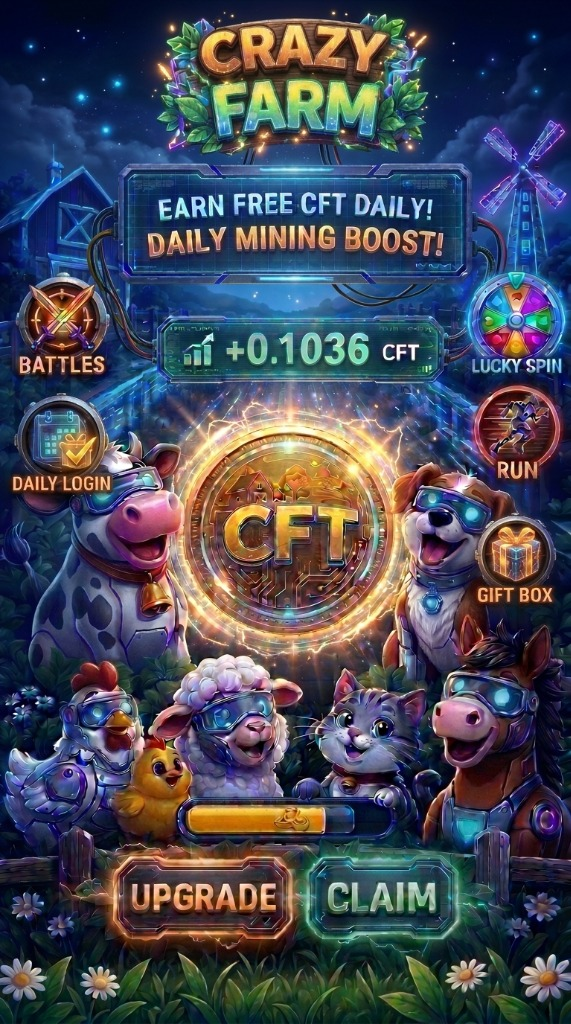
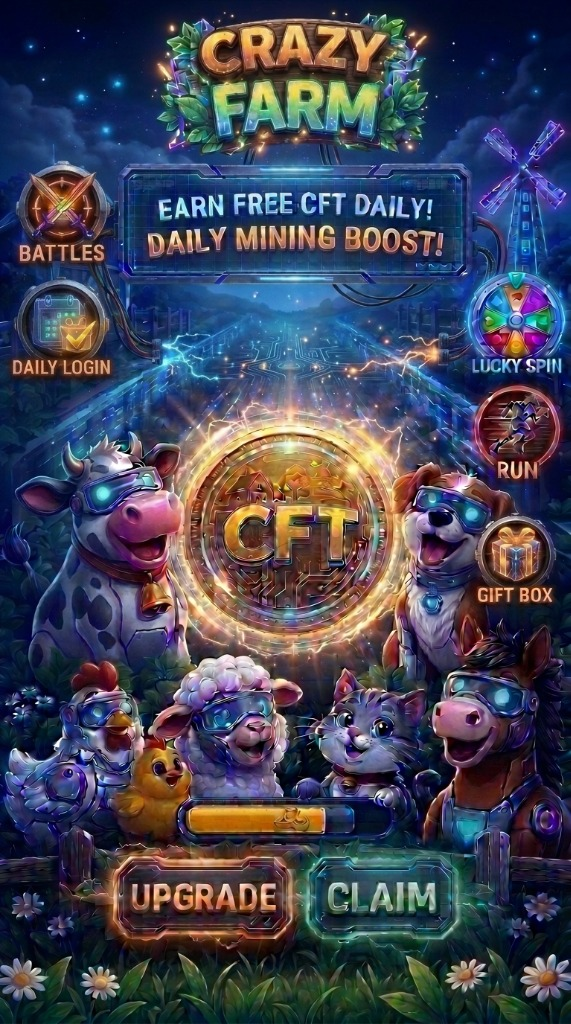
feat: complete CFT currency unification, remove points conversion, fix character encoding mojibake, and calibrate edge-to-edge home layout

diff --git a/index.html b/index.html
@@ -1,4 +1,4 @@
-<!DOCTYPE html>
+<!DOCTYPE html>
 <html lang="en" dir="ltr">
 <head>
   <meta charset="UTF-8">
@@ -282,7 +282,7 @@
       <!-- ===== CYBER FARM MASTER HOME VIEW ===== -->
       <!-- ===== CYBER FARM MASTER HOME VIEW ===== -->
       <!-- ===== CYBER FARM MASTER HOME VIEW ===== -->
-      <div id="homeView" class="-mx-3 -mt-3 -mb-24 relative w-[calc(100%+1.5rem)] overflow-hidden select-none pb-0">
+      <div id="homeView" class="-mx-3 -mt-3 mb-0 relative w-[calc(100%+1.5rem)] overflow-hidden select-none pb-0">
         
         <div id="cyberHomeContainer" class="relative w-full overflow-hidden shadow-2xl" style="height: calc(100vh - 60px); height: calc(100dvh - 60px); min-height: 560px;">
           
@@ -306,37 +306,37 @@
           </div>
 
           <!-- 3. Mining Rate Center Badge (Real-Time Live Ticker) -->
-          <div class="absolute flex flex-col items-center justify-center pointer-events-none select-none" style="left: 32%; top: 31.0%; width: 36%; height: 5.2%;">
-            <span id="cyberMiningLiveMined" class="text-[11.5px] font-black text-lime-300 tracking-wide drop-shadow font-mono leading-none">+0.0000 CFT</span>
-            <span id="cyberMiningSpeed" class="text-[8px] font-bold text-cyan-200/90 leading-tight mt-0.5">âš¡ 12/d (Lv.1)</span>
+          <div class="absolute flex flex-col items-center justify-center pointer-events-none select-none bg-black/55 backdrop-blur-md border border-cyan-400/40 rounded-2xl px-2.5 py-0.5 shadow-lg" style="left: 28%; top: 30.5%; width: 44%; height: 5.8%;">
+            <span id="cyberMiningLiveMined" class="text-[12px] font-black text-lime-300 tracking-wide drop-shadow font-mono leading-none">+0.0000 CFT</span>
+            <span id="cyberMiningSpeed" class="text-[8.5px] font-bold text-cyan-200 leading-tight mt-0.5">&#9889; 12/d (Lv.1)</span>
           </div>
 
           <!-- ==================== INTERACTIVE CLICKABLE HOTSPOTS ==================== -->
           <!-- 4. Battles Hotspot (Left Swords Ring) -->
-          <div onclick="openBattlesModal()" class="absolute z-20 cursor-pointer rounded-full active:scale-90 transition-transform" style="left: 4.5%; top: 26.5%; width: 17%; height: 9.5%;" title="Farm Battles"></div>
+          <div onclick="openBattlesModal()" class="absolute z-20 cursor-pointer rounded-full active:scale-90 transition-transform" style="left: 2.5%; top: 15.0%; width: 18%; height: 10%;" title="Farm Battles"></div>
 
           <!-- 5. Daily Login Hotspot (Left Gift Box Ring) -->
-          <div onclick="openDailyLoginModal()" class="absolute z-20 cursor-pointer rounded-full active:scale-90 transition-transform" style="left: 4.5%; top: 37.8%; width: 17%; height: 9.5%;" title="Daily Check-In"></div>
+          <div onclick="openDailyLoginModal()" class="absolute z-20 cursor-pointer rounded-full active:scale-90 transition-transform" style="left: 2.5%; top: 26.5%; width: 18%; height: 10%;" title="Daily Check-In"></div>
 
           <!-- 6. Lucky Spin Hotspot (Right Roulette Ring) -->
-          <div onclick="openCrazyBox()" class="absolute z-20 cursor-pointer rounded-full active:scale-90 transition-transform" style="left: 78.5%; top: 26.5%; width: 17%; height: 9.5%;" title="Lucky Spin Crazy Box"></div>
+          <div onclick="openCrazyBox()" class="absolute z-20 cursor-pointer rounded-full active:scale-90 transition-transform" style="left: 80.5%; top: 25.5%; width: 18%; height: 10%;" title="Lucky Spin Crazy Box"></div>
 
           <!-- 7. Run Hotspot (Right Cyber Runner Character Ring) -->
-          <div onclick="openBattlePrep('run')" class="absolute z-20 cursor-pointer rounded-full active:scale-90 transition-transform" style="left: 78.5%; top: 37.2%; width: 17%; height: 9.5%;" title="Farm Run Sprint"></div>
+          <div onclick="openBattlePrep('run')" class="absolute z-20 cursor-pointer rounded-full active:scale-90 transition-transform" style="left: 80.5%; top: 36.8%; width: 18%; height: 9.5%;" title="Farm Run Sprint"></div>
 
           <!-- 8. Gift Box Hotspot (Right Gold Gift Box Ring) -->
-          <div onclick="openCrazyBox()" class="absolute z-20 cursor-pointer rounded-full active:scale-90 transition-transform" style="left: 80%; top: 48.2%; width: 17%; height: 9.5%;" title="Mystery Gift Box"></div>
+          <div onclick="openCrazyBox()" class="absolute z-20 cursor-pointer rounded-full active:scale-90 transition-transform" style="left: 80.5%; top: 48.5%; width: 18%; height: 9.5%;" title="Mystery Gift Box"></div>
 
           <!-- 9. Giant Center CFT Coin - Interactive Tap-to-Mine with Haptic Feedback & Floating Points! -->
-          <div id="cyberCoinTapArea" onclick="onCyberCoinTap(event)" class="absolute z-20 cursor-pointer rounded-full active:scale-90 transition-transform flex items-center justify-center" style="left: 28%; top: 39.5%; width: 44%; height: 23%;" title="Tap to Mine CFT!">
+          <div id="cyberCoinTapArea" onclick="onCyberCoinTap(event)" class="absolute z-20 cursor-pointer rounded-full active:scale-90 transition-transform flex items-center justify-center" style="left: 28.5%; top: 38.5%; width: 43%; height: 23%;" title="Tap to Mine CFT!">
             <div class="w-full h-full rounded-full border border-yellow-400/20 hover:border-yellow-400/60 transition-colors"></div>
           </div>
 
           <!-- 10. Upgrade Button (Bottom Left) -->
-          <div onclick="onCyberHomeUpgrade()" class="absolute z-20 cursor-pointer rounded-2xl active:scale-95 transition-transform" style="left: 17%; top: 81%; width: 33%; height: 8.5%;" title="Upgrade Animals & Farms"></div>
+          <div onclick="onCyberHomeUpgrade()" class="absolute z-20 cursor-pointer rounded-2xl active:scale-95 transition-transform" style="left: 17.5%; top: 81.5%; width: 34%; height: 9%;" title="Upgrade Animals & Farms"></div>
 
           <!-- 11. Claim Button (Bottom Right) -->
-          <div onclick="onCyberHomeClaim()" class="absolute z-20 cursor-pointer rounded-2xl active:scale-95 transition-transform animate-pulse" style="left: 52%; top: 81%; width: 33%; height: 8.5%;" title="Claim Farm Earnings"></div>
+          <div onclick="onCyberHomeClaim()" class="absolute z-20 cursor-pointer rounded-2xl active:scale-95 transition-transform animate-pulse" style="left: 52.5%; top: 81.5%; width: 34%; height: 9%;" title="Claim Farm Earnings"></div>
 
         </div> <!-- /#cyberHomeContainer -->
 
@@ -397,7 +397,12 @@
           </div>
 
           <!-- Right: Convert Button -->
-          <button onclick="switchTab('wallet')" class="btn-3d-yellow px-3 py-1.5 rounded-xl text-amber-950 font-black text-[11px] shadow-lg border border-yellow-200 flex items-center gap-1 active:scale-95 transition-transform shrink-0" title="Convert Farm Points to CFC"><span>&#128259;</span><span>Convert</span></button>
+          <!-- Right: CFT Token Balance -->
+          <div onclick="switchTab('wallet')" class="flex flex-col items-center justify-center text-center px-2 cursor-pointer active:scale-95 transition-transform shrink-0" title="View CFT Wallet">
+            <span class="text-[8.5px] font-bold text-amber-200 uppercase tracking-tight">CFT Token</span>
+            <span id="dashboardCftDisplay" class="text-xs font-black text-yellow-300 drop-shadow">0.00</span>
+            <span class="text-[7.5px] text-cyan-200 font-semibold">Wallet &#129689;</span>
+          </div>
         </div>
 
         <!-- ==================== CRAZY FARM INTERACTIVE LIVING VIDEO MAP ==================== -->
@@ -557,7 +562,7 @@
               <div class="w-9 h-9 rounded-xl bg-gradient-to-tr from-emerald-500 to-green-600 text-white flex items-center justify-center text-lg shadow shrink-0 border border-emerald-300">&#127808;</div>
               <div class="overflow-hidden">
                 <div class="text-[10px] font-bold text-emerald-800/90 leading-none">Crazy Farm Coin</div>
-                <div id="statHoneyCoins" class="font-black text-emerald-700 text-sm mt-1">0 CFC</div>
+                <div id="statHoneyCoins" class="font-black text-emerald-700 text-sm mt-1">0 CFT</div>
               </div>
             </div>
 
@@ -782,56 +787,19 @@
           </div>
         </div>
 
-        <!-- CARD 2: Convert Farm Points → CFC -->
-        <div class="bg-gradient-to-b from-[#1e1a4a] to-[#130f33] border-2 border-[#5a3bc4] rounded-3xl p-4 shadow-xl text-white">
-          <!-- Header -->
-          <div class="flex items-center gap-2 mb-3">
-            <div class="w-8 h-8 rounded-xl bg-gradient-to-tr from-violet-500 to-purple-600 flex items-center justify-center text-lg shadow border border-purple-300">🔄</div>
-            <h3 class="font-black text-base text-purple-200">Convert Points → CFC</h3>
-          </div>
-
-          <!-- Rate Info -->
-          <div class="bg-purple-900/40 rounded-xl px-3 py-2 mb-3 border border-purple-700/50 text-xs text-center">
-            <span class="text-purple-300 font-semibold">Min: </span>
-            <span class="text-white font-black">5,000 Farm Points</span>
-            <span class="text-purple-300"> → </span>
-            <span class="text-lime-300 font-black">5 CFC Coins &#127808;</span> <span class="ml-1.5 px-2 py-0.5 rounded-full bg-emerald-900/70 text-emerald-300 border border-emerald-500/60 font-black text-[10px]">100% FREE (0% Fee)</span>
-          </div>
-
-          <!-- Conversion Row -->
-          <div class="flex items-center gap-2 mb-3">
-            <div class="flex-1 bg-black/50 border-2 border-purple-700/60 rounded-xl p-2 text-center">
-              <div class="text-[10px] text-purple-300 font-bold mb-0.5">Farm Points</div>
-              <div id="convertFromDisplay" class="text-xl font-black text-white">0</div>
-            </div>
-            <div class="flex flex-col items-center gap-1">
-              <div class="text-2xl animate-pulse">→</div>
-            </div>
-            <div class="flex-1 bg-black/50 border-2 border-lime-600/60 rounded-xl p-2 text-center">
-              <div class="text-[10px] text-lime-300 font-bold mb-0.5">CFC Coins</div>
-              <div id="convertToDisplay" class="text-xl font-black text-lime-300">0</div>
-            </div>
-          </div>
-
-          <!-- Convert Button -->
-          <button onclick="convertPointsToHFC()" class="w-full py-2.5 rounded-2xl bg-gradient-to-r from-violet-600 to-purple-700 hover:brightness-110 text-white font-black text-sm shadow-xl border border-purple-400/60 active:scale-95 transition-all flex items-center justify-center gap-2 cursor-pointer">
-            <span>&#128260;</span> Convert Now (Min: 5,000 Pts → 5 CFC)
-          </button>
-        </div>
-
-        <!-- CARD 3: CFC Balance -->
+        <!-- CARD 3: CFT Balance -->
         <div class="bg-gradient-to-b from-[#0d3d1a] to-[#061a0b] border-2 border-[#2a8c4a] rounded-3xl p-4 shadow-xl text-white">
           <!-- Header -->
           <div class="flex items-center gap-2 mb-3">
             <div class="w-8 h-8 rounded-xl bg-gradient-to-tr from-emerald-500 to-green-600 flex items-center justify-center text-lg shadow border border-emerald-300">💎</div>
-            <h3 class="font-black text-base text-emerald-200">CFC Token Airdrop</h3><span class="ml-auto text-[10px] font-black px-2 py-0.5 rounded-full bg-emerald-900/80 text-emerald-300 border border-emerald-500">Phase 1 Active</span>
+            <h3 class="font-black text-base text-emerald-200">CFT Token Airdrop</h3><span class="ml-auto text-[10px] font-black px-2 py-0.5 rounded-full bg-emerald-900/80 text-emerald-300 border border-emerald-500">Phase 1 Active</span>
           </div>
 
           <!-- CFC Balance -->
           <div class="bg-black/40 rounded-2xl p-3 mb-3 text-center border border-emerald-700/60">
             <div class="flex items-center justify-center gap-2 mb-1">
               <span id="hfcBalanceDisplay" class="text-3xl font-black text-emerald-300">0</span>
-              <span class="text-xl font-black text-emerald-200">CFC</span>
+              <span class="text-xl font-black text-emerald-200">CFT</span>
             </div>
             <div class="text-xs text-emerald-300 font-semibold flex items-center justify-center gap-1"><span>🎯 Allocation Status:</span><span id="hfcUsdDisplay" class="text-yellow-300 font-bold">Accumulating for TGE</span></div>
             <div class="mt-2 pt-2 border-t border-emerald-800/50 flex items-center justify-between text-[10px] text-emerald-300 font-bold px-1">
@@ -1340,13 +1308,13 @@
         <!-- Header -->
         <div class="flex items-center justify-between pb-2.5 border-b border-amber-800/80 mb-3">
           <div class="flex items-center gap-2">
-            <span class="text-2xl animate-bounce">âš”ï¸</span>
+            <span class="text-2xl animate-bounce">&#9876;</span>
             <div>
               <h3 class="text-sm sm:text-base font-black text-yellow-300 uppercase tracking-wide leading-none drop-shadow" style="font-family: 'Fredoka', cursive;">Farm Battles Arena</h3>
               <span class="text-[10px] text-amber-200 font-bold">Choose your battle mode</span>
             </div>
           </div>
-          <button onclick="closeBattlesModal()" class="w-8 h-8 rounded-full bg-red-600/90 text-white font-black text-sm flex items-center justify-center border border-white/60 active:scale-90 transition-transform cursor-pointer shadow">âœ•</button>
+          <button onclick="closeBattlesModal()" class="w-8 h-8 rounded-full bg-red-600/90 text-white font-black text-sm flex items-center justify-center border border-white/60 active:scale-90 transition-transform cursor-pointer shadow">&#10005;</button>
         </div>
 
         <!-- Battles 3 Modes List -->
@@ -1354,37 +1322,37 @@
           <!-- 1. 3 vs 3 -->
           <button onclick="closeBattlesModal(); openBattlePrep(3)" class="btn-3d-blue w-full rounded-2xl p-3 flex items-center justify-between shadow-lg active:scale-95 transition-all text-white border border-sky-300/40 cursor-pointer">
             <div class="flex items-center gap-3">
-              <span class="text-3xl">ðŸ¥‰</span>
+              <span class="text-3xl">&#129353;</span>
               <div class="text-left">
                 <div class="font-black text-xs sm:text-sm text-yellow-200 leading-tight">3 vs 3 BATTLE</div>
                 <div class="text-[9.5px] text-sky-200 font-bold">+100 Farm Points</div>
               </div>
             </div>
-            <span id="pvpBadge-3" class="bg-sky-950/90 text-lime-300 text-[10px] font-black px-2.5 py-1 rounded-xl border border-sky-400/50 shrink-0">âš”ï¸ Free</span>
+            <span id="pvpBadge-3" class="bg-sky-950/90 text-lime-300 text-[10px] font-black px-2.5 py-1 rounded-xl border border-sky-400/50 shrink-0">&#9876; Free</span>
           </button>
 
           <!-- 2. 5 vs 5 -->
           <button onclick="closeBattlesModal(); openBattlePrep(5)" class="btn-3d-yellow w-full rounded-2xl p-3 flex items-center justify-between shadow-lg active:scale-95 transition-all text-amber-950 border border-yellow-200/60 cursor-pointer">
             <div class="flex items-center gap-3">
-              <span class="text-3xl">ðŸ¥ˆ</span>
+              <span class="text-3xl">&#129352;</span>
               <div class="text-left">
                 <div class="font-black text-xs sm:text-sm text-amber-950 leading-tight">5 vs 5 BATTLE</div>
                 <div class="text-[9.5px] text-amber-900 font-extrabold">+200 Farm Points</div>
               </div>
             </div>
-            <span id="pvpBadge-5" class="bg-amber-950/90 text-yellow-300 text-[10px] font-black px-2.5 py-1 rounded-xl border border-amber-600 shrink-0">âš”ï¸ Free</span>
+            <span id="pvpBadge-5" class="bg-amber-950/90 text-yellow-300 text-[10px] font-black px-2.5 py-1 rounded-xl border border-amber-600 shrink-0">&#9876; Free</span>
           </button>
 
           <!-- 3. 7 vs 7 Champion -->
           <button onclick="closeBattlesModal(); openBattlePrep(7)" class="btn-3d-green w-full rounded-2xl p-3 flex items-center justify-between shadow-lg active:scale-95 transition-all text-white border border-yellow-300/80 cursor-pointer">
             <div class="flex items-center gap-3">
-              <span class="text-3xl animate-bounce">ðŸ¥‡</span>
+              <span class="text-3xl animate-bounce">&#129351;</span>
               <div class="text-left">
                 <div class="font-black text-xs sm:text-sm text-yellow-300 leading-tight">7 vs 7 CHAMPION</div>
                 <div class="text-[9.5px] text-emerald-200 font-bold">+500 Farm Points</div>
               </div>
             </div>
-            <span id="pvpBadge-7" class="bg-emerald-950/90 text-lime-300 text-[10px] font-black px-2.5 py-1 rounded-xl border border-emerald-400 shrink-0">âš”ï¸ Free</span>
+            <span id="pvpBadge-7" class="bg-emerald-950/90 text-lime-300 text-[10px] font-black px-2.5 py-1 rounded-xl border border-emerald-400 shrink-0">&#9876; Free</span>
           </button>
         </div>
       </div>
@@ -1396,13 +1364,13 @@
         <!-- Header -->
         <div class="flex items-center justify-between pb-2.5 border-b border-amber-800/80 mb-3">
           <div class="flex items-center gap-2">
-            <span class="text-2xl animate-bounce">ðŸ“…</span>
+            <span class="text-2xl animate-bounce">&#128197;</span>
             <div>
               <h3 class="text-sm sm:text-base font-black text-yellow-300 uppercase tracking-wide leading-none drop-shadow" style="font-family: 'Fredoka', cursive;">Daily Check-In</h3>
               <span class="text-[10px] text-amber-200 font-bold">Streak Bonus (10 Days Cycle)</span>
             </div>
           </div>
-          <button onclick="closeDailyLoginModal()" class="w-8 h-8 rounded-full bg-red-600/90 text-white font-black text-sm flex items-center justify-center border border-white/60 active:scale-90 transition-transform cursor-pointer shadow">âœ•</button>
+          <button onclick="closeDailyLoginModal()" class="w-8 h-8 rounded-full bg-red-600/90 text-white font-black text-sm flex items-center justify-center border border-white/60 active:scale-90 transition-transform cursor-pointer shadow">&#10005;</button>
         </div>
 
         <!-- Streak Tracker -->
@@ -1479,7 +1447,7 @@
 
         <!-- Action Button -->
         <button id="dailyCheckInBtn" onclick="claimDailyCheckIn()" class="btn-3d-yellow w-full py-2.5 rounded-2xl text-amber-950 font-black text-xs shadow-lg flex items-center justify-center gap-2 active:scale-95 transition-all">
-          <span>ðŸŽ</span> Check in today (+10 ðŸŒ¾)
+                  <span>&#127873;</span> Check in today (+10 &#127806;)
         </button>
       </div>
     </div>
@@ -3368,7 +3336,7 @@
       if (speedEl) {
         const daily = getMainFarmDailyRate(userLevel);
         const maxTag = userLevel >= 100 ? ' (MAX)' : ` (Lv.${userLevel})`;
-        speedEl.innerText = `âš¡ ${daily}/d${maxTag}`;
+        speedEl.innerHTML = `&#9889; ${daily}/d${maxTag}`;
       }
     }
 
@@ -3420,7 +3388,7 @@
       const pending = getPendingMinedCft();
       if (pending < 0.0001) {
         playSound('click');
-        showWalletToast('âš¡ Mining in progress... keep waiting to claim your CFT!');
+        showWalletToast('\u26A1 Mining in progress... keep waiting to claim your CFT!');
         return;
       }
 
@@ -3440,7 +3408,7 @@
         triggerCoinBurstAnimation();
       }
 
-      showWalletToast(`ðŸŽ‰ Claimed +${pending.toFixed(4)} CFT to Wallet!`);
+      showWalletToast(`\u{1F389} Claimed +${pending.toFixed(4)} CFT to Wallet!`);
       updateDisplays();
       updateLiveCftMiningTicker();
       if (typeof queueCloudSave === 'function') queueCloudSave();
@@ -3450,14 +3418,14 @@
     function onCyberHomeUpgrade() {
       if (userLevel >= 100) {
         playSound('click');
-        showWalletToast('ðŸ† Main Farm is already at MAX Level (Lv. 100)!');
+        showWalletToast('\u{1F3C6} Main Farm is already at MAX Level (Lv. 100)!');
         return;
       }
 
       const cost = getMainFarmUpgradeCost(userLevel);
       if (points < cost) {
         playSound('click');
-        showWalletToast(`âš ï¸ Need ${cost.toLocaleString()} Farm Points for Lv. ${userLevel + 1}! (${points.toLocaleString()} / ${cost.toLocaleString()} pts)`);
+        showWalletToast(`\u26A0\uFE0F Need ${cost.toLocaleString()} Farm Points for Lv. ${userLevel + 1}! (${points.toLocaleString()} / ${cost.toLocaleString()} pts)`);
         return;
       }
 
@@ -3482,7 +3450,7 @@
 
       try { playSound('fanfare'); } catch(e){}
       const newSpeed = getMainFarmDailyRate(userLevel);
-      showWalletToast(`ðŸŽ‰ Upgraded to Lv. ${userLevel}! Mining Speed: ${newSpeed} CFT/day! âš¡`);
+      showWalletToast(`\u{1F389} Upgraded to Lv. ${userLevel}! Mining Speed: ${newSpeed} CFT/day! \u26A1`);
 
       updateDisplays();
       updateLiveCftMiningTicker();
@@ -3510,7 +3478,7 @@
       }
       const cyberSpeed = document.getElementById('cyberMiningSpeed');
       if (cyberSpeed) {
-        const rate = (userLevel * 24).toLocaleString();
+        const rate = getMainFarmDailyRate(userLevel).toLocaleString();
         cyberSpeed.innerText = '+' + rate + '/d CFT';
       }
       document.getElementById('farmingSpeedDisplay').innerText = `+${dailyBeeRate}/d (Lv. ${userLevel})`;
@@ -3617,9 +3585,9 @@
       queueCloudSave();
       updateDisplays();
       if (typeof showWalletToast === 'function') {
-        showWalletToast(`🎉 Upgraded to Lv. ${userLevel}! Mining speed: ${userLevel * 24} pts/day (${userLevel} pts/h)`);
+      showWalletToast(`\u{1F389} Upgraded to Lv. ${userLevel}! Mining Speed: ${newSpeed} CFT/day! \u26A1`);
       } else {
-        alert(`🎉 Congratulations! Upgraded to Lv. ${userLevel}!\n⚡ Bee Farm mining speed is now: ${userLevel * 24} points/day (${userLevel} pts/hour)!`);
+      showWalletToast(`\u{1F389} Upgraded to Lv. ${userLevel}! Mining Speed: ${newSpeed} CFT/day! \u26A1`);
       }
     }
 
@@ -4349,7 +4317,7 @@
     function openMainFarmModal() {
       switchTab('home');
       try { playSound('fanfare'); } catch(e){}
-      showWalletToast('ðŸšœ Welcome to Main Farm! Mining CFT Live!');
+      showWalletToast('\u{1F69C} Welcome to Main Farm! Mining CFT Live!');
     }
     function closeMainFarmModal() {
       const vidEl = document.getElementById('mainFarmModalVideo');
